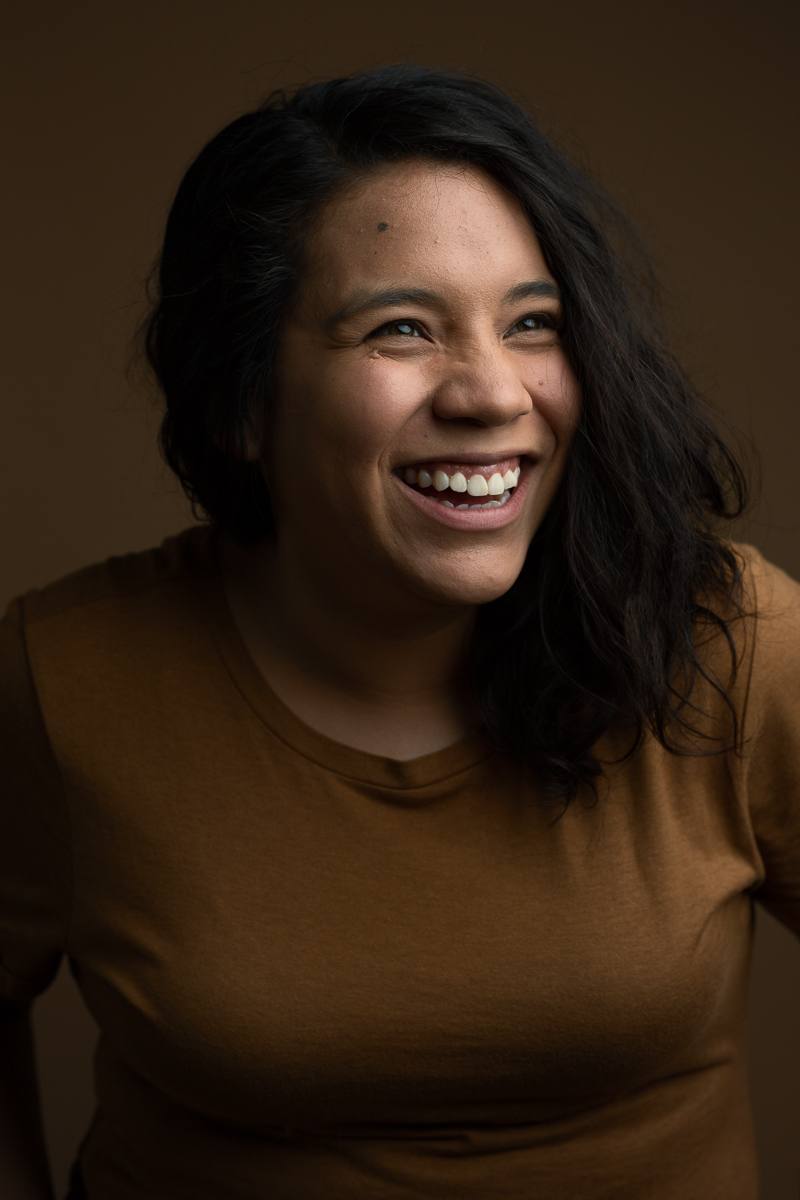
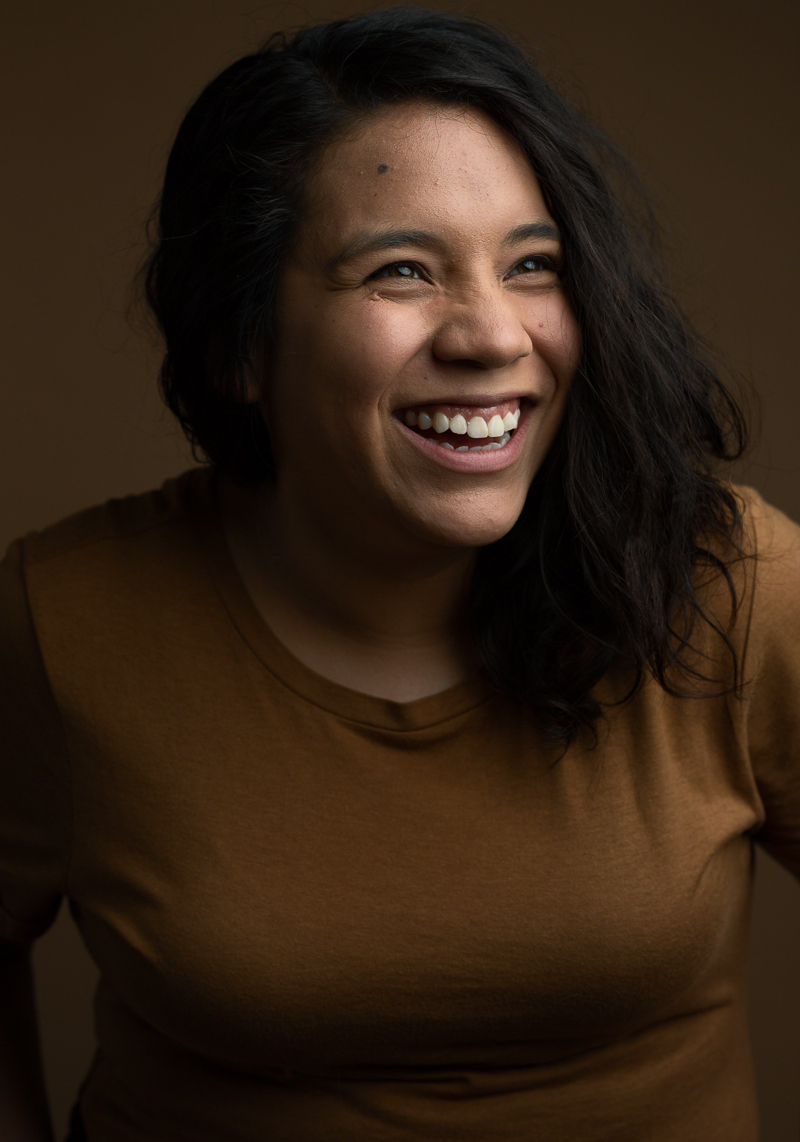
Fixed positioning of about me photo

diff --git a/_sass/_layout.scss b/_sass/_layout.scss
@@ -155,7 +155,7 @@ h1 {
         .headshot {
             background: url('/img/about-header.jpg');
             background-size: cover;
-            background-position: center;
+            background-position: top;
             height: 100%;
             @include media-query(767px) {
                 height: 50%;
